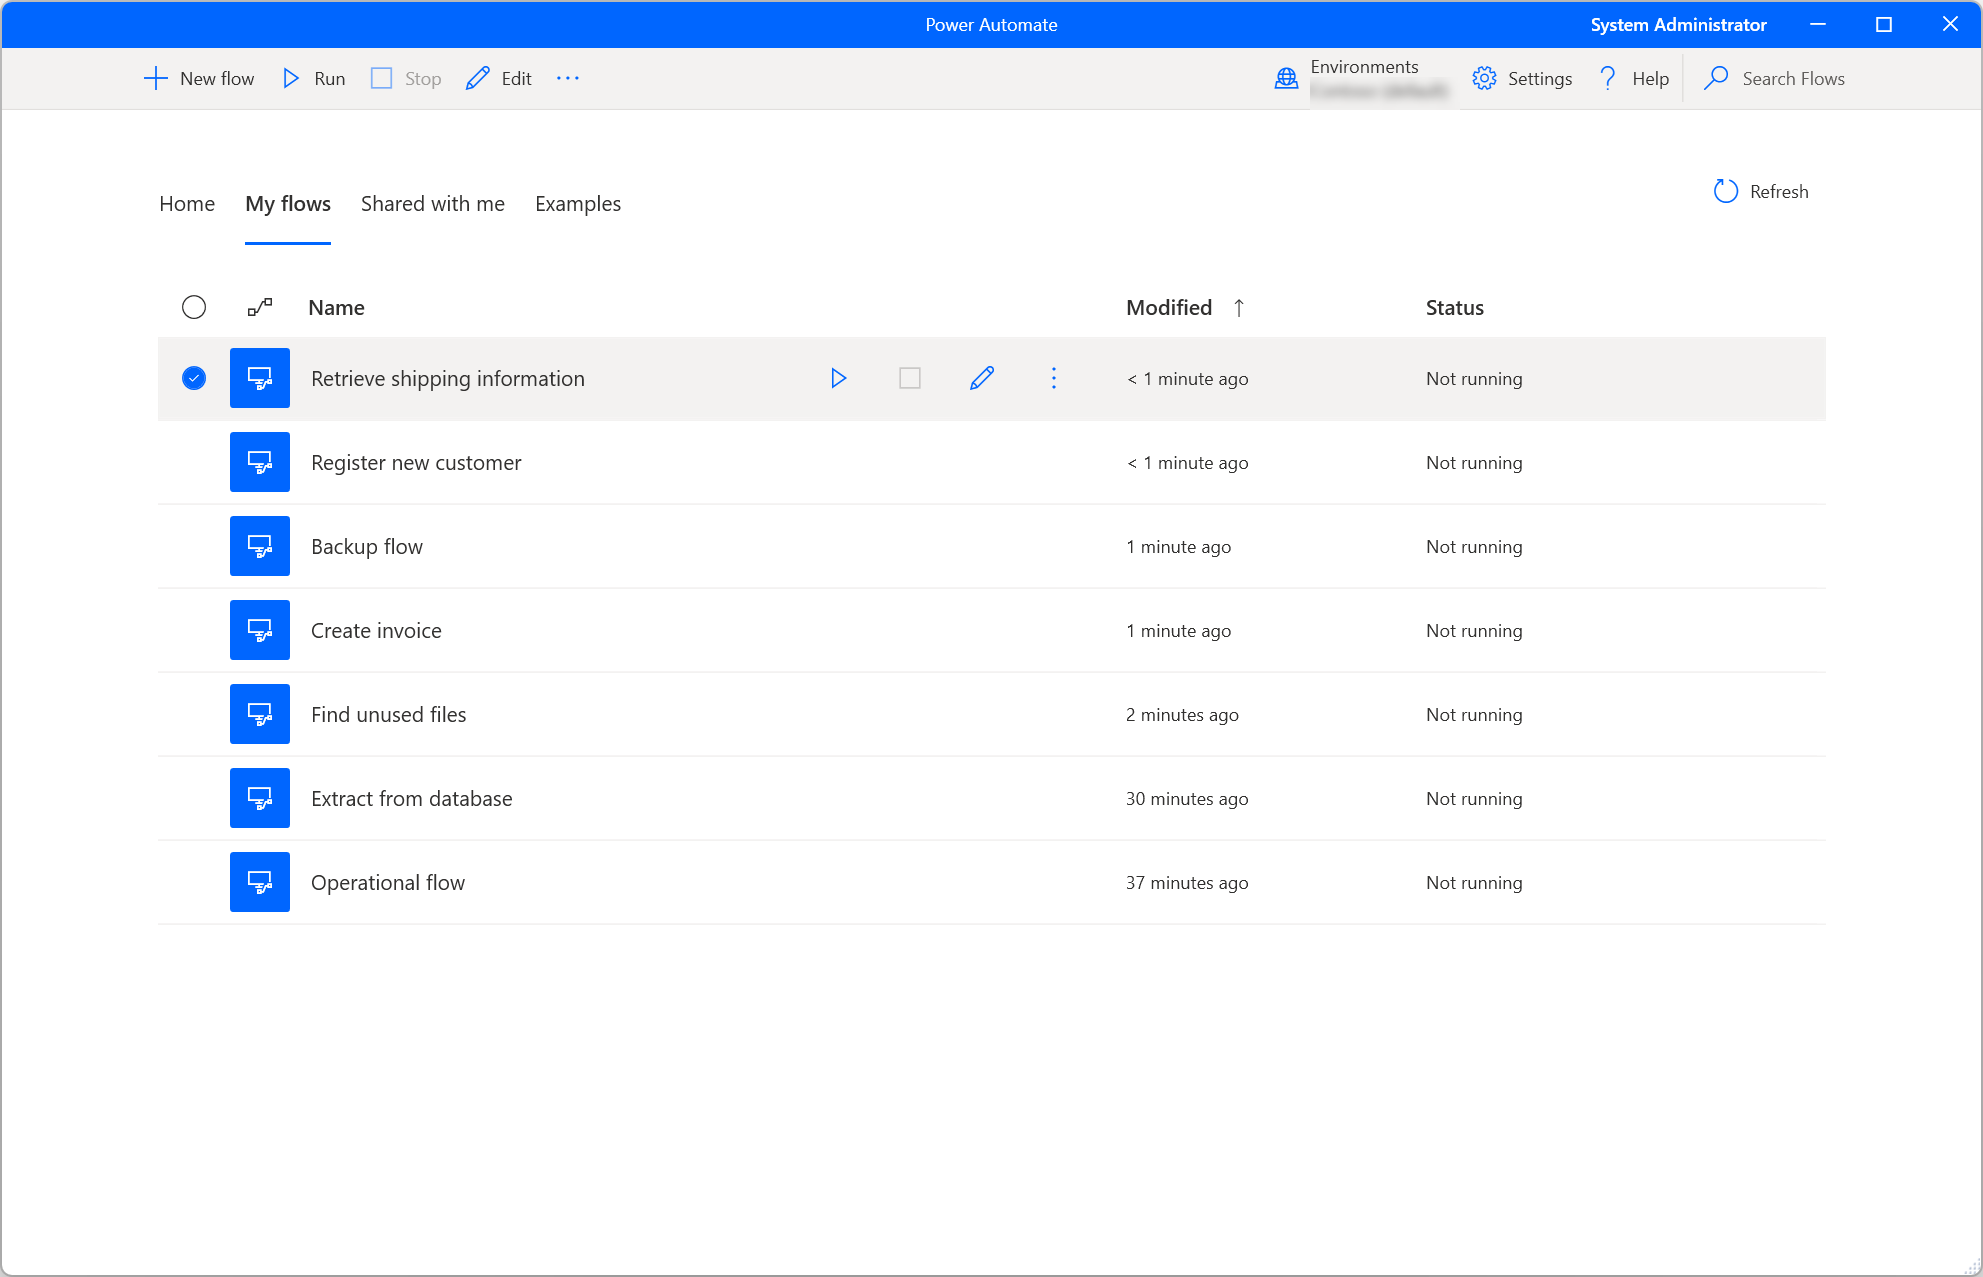
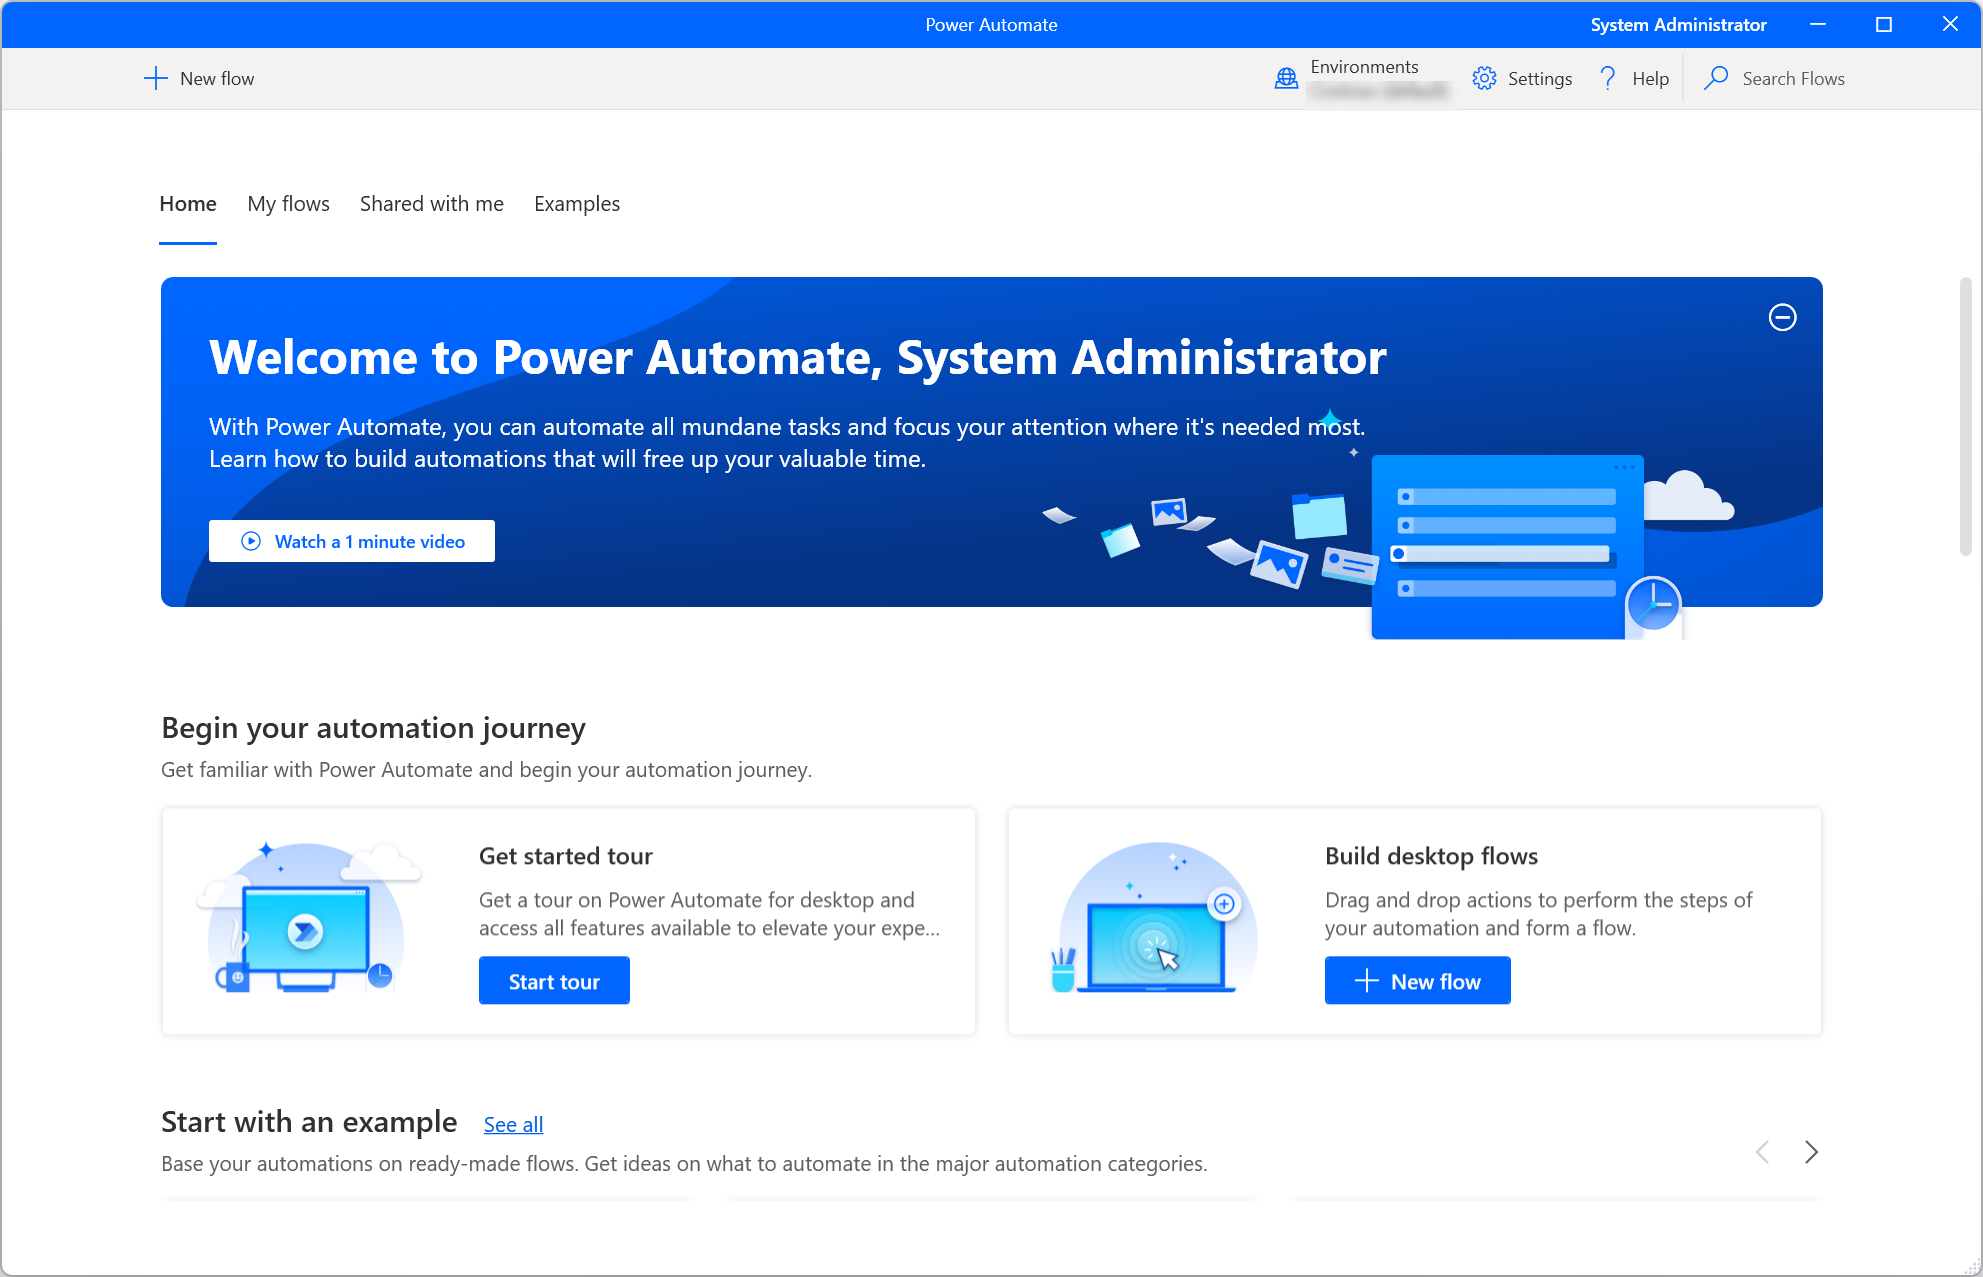
Updates for home tab in console

diff --git a/articles/desktop-flows/console.md b/articles/desktop-flows/console.md
@@ -23,7 +23,7 @@ search.audienceType:
 
 The console is the central interface of Power Automate for desktop.
 
-The main area of the console contains three tabs that display different kind of desktop flows: your flows, [shared flows](manage.md#share-desktop-flows), and [built-in examples](create-flow.md#start-creating-desktop-flows-using-examples).
+The main area of the console contains four tabs that display different kind of information: a home screen, your desktop flows, [shared desktop flows](manage.md#share-desktop-flows), and [built-in examples](create-flow.md#start-creating-desktop-flows-using-examples).
 
 On the top of the window, you can see the current user, while on the command bar, you can see all the available actions, a dropdown list to switch environments, the **Settings** and **Help** buttons, and a search bar.
 
